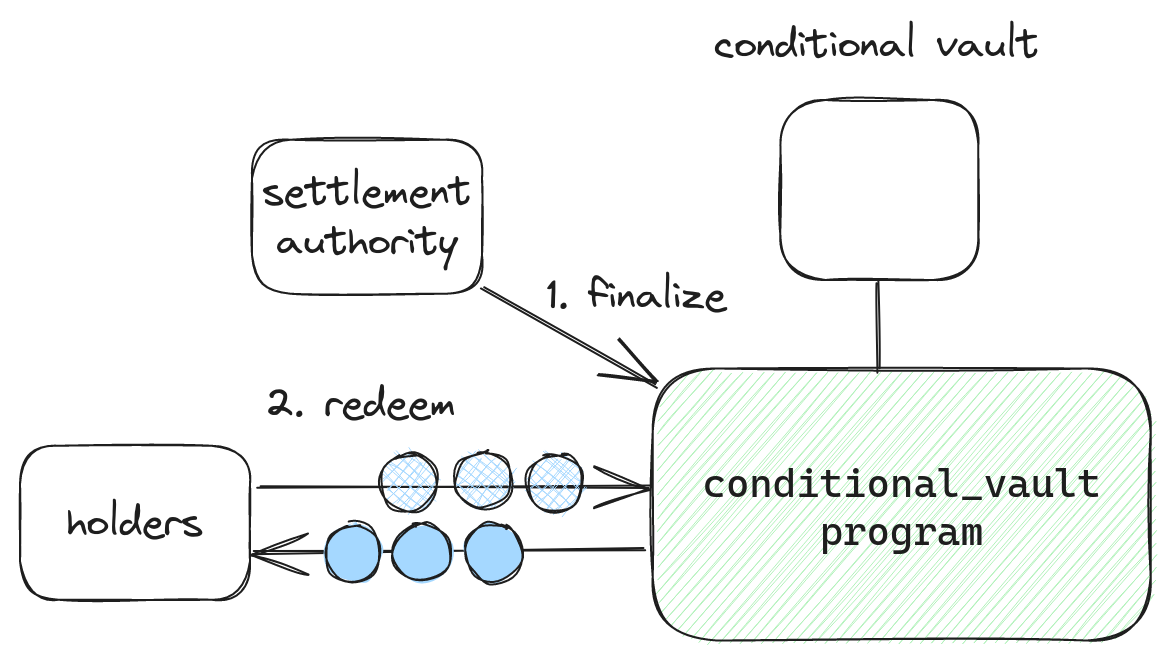
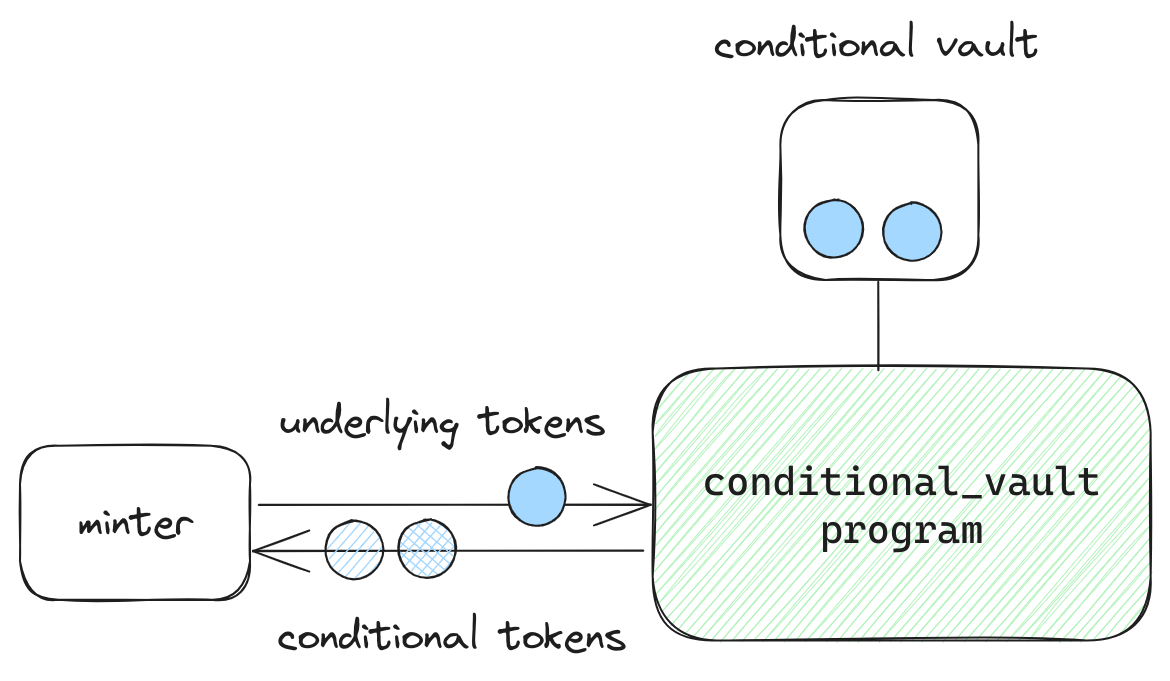
GITBOOK-8: Complete program architecture page

diff --git a/docs/implementation/program-architecture.md b/docs/implementation/program-architecture.md
@@ -2,33 +2,64 @@
 
 We implement futarchy via three programs:
 
-* **Conditional vault:** what allows the creation of conditional tokens, which in turn is what allows for conditional markets.
+* **Conditional vault:** what allows the creation of conditional tokens.
+* **AMM:** allows the creation of AMM-based conditional markets. Provides a time-weighted average price oracle.
 * **Autocrat:** the program that coordinates futarchy. Allows the creation of DAOs and proposals, and allows proposals to be finalized based on the prices in the conditional markets.
-* **AMM:** we need to get on-chain time-weighted average prices of the conditional markets. Existing Solana-based CPAMMs didn't provide TWAP oracles, so we have an AMM program that provides one.
 
 ### Conditional vault program <a href="#conditional-vault-program" id="conditional-vault-program"></a>
 
-In a conditional market, you must revert all trades when the condition isn't met. Blockchains like Solana don't allow you to revert transactions after they've been finalized, so we need a mechanism to _simulate_ reverting transactions. That mechanism is conditional tokens.
+For a conditional market to work, you must revert all of the market's trades when the condition isn't met. This is what allows speculators to place trades like "I would pay $5,000 for 10 META if this proposal passes."
 
-Before minting conditional tokens, someone needs to create a _conditional vault_. Conditional vaults are each tied to a specific _underlying token, settlement authority,_ and _proposal_.
+Blockchains like Solana don't allow you to revert transactions after they've been finalized, so we need a mechanism to _simulate_ reverting transactions. That mechanism is conditional tokens.
+
+Conditional tokens are tied to _conditional vaults_. Each conditional vault has a specific _underlying token, settlement authority,_ and _proposal_. In the case of futarchy, the underlying token would be either USDC or the DAO's token, the settlement authority would be the DAO's treasury, and the proposal would be a proposal to the DAO.
+
+<figure><img src="../.gitbook/assets/conditional-vaults.png" alt="" width="563"><figcaption></figcaption></figure>
 
 Once a vault is created, anyone can deposit underlying tokens in exchange for conditional tokens. You receive two types of conditional tokens: ones that are redeemable for underlying tokens if the vault is finalized and ones that are redeemable for underlying tokens if the vault is reverted. For example, if you deposit 10 USDC into a vault, you will receive 10 conditional-on-finalize USDC and 10 conditional-on-revert USDC.
 
-<figure><img src="../.gitbook/assets/image.png" alt=""><figcaption></figcaption></figure>
+<figure><img src="../.gitbook/assets/image (1).png" alt="" width="563"><figcaption></figcaption></figure>
 
 The settlement authority can either _finalize_ or _revert_ a vault.
 
 If the settlement authority finalizes a vault, users can redeem their conditional-on-finalize tokens for underlying tokens. Conversely, if the settlement authority reverts a vault, users can redeem their conditional-on-revert tokens for underlying tokens.
 
-<figure><img src="../.gitbook/assets/image (1).png" alt=""><figcaption></figcaption></figure>
+<figure><img src="../.gitbook/assets/image (1) (1).png" alt="" width="563"><figcaption></figcaption></figure>
 
-There should be two vaults for each proposal: a base vault and a quote vault. The base vault uses the DAO's token as the underlying token, and the quote vault uses USDC as the underlying token. For example, MetaDAO proposals have vaults for META and USDC.
+There are two vaults for each proposal: a base vault and a quote vault. The base vault uses the DAO's token as the underlying token, and the quote vault uses USDC as the underlying token. For example, MetaDAO proposals have vaults for META and USDC.
 
-While a proposal is live, traders can deposit their underlying tokens for conditional tokens. If the proposal passes, both vaults are finalized. If it fails, both are reverted.
+If the proposal passes, both vaults are finalized. If it fails, both are reverted.
 
-<figure><img src="../.gitbook/assets/image (2).png" alt=""><figcaption></figcaption></figure>
+<figure><img src="../.gitbook/assets/image (2).png" alt="" width="563"><figcaption></figcaption></figure>
 
+This allows us to achieve the desired reverting of trades. For example, if someone mints conditional-on-pass META and trades it for conditional-on-pass USDC, either the proposal will pass and they can redeem conditional-on-pass USDC for USDC or the proposal will fail and they can redeem their conditional-on-fail META for their original META.
 
+So we create two markets per proposal: one where conditional-on-pass META is traded for conditional-on-pass USDC and one where conditional-on-fail META is traded for conditional-on-fail USDC. This allows traders to express opinions like “this token would be worth $112 if the proposal passes, but it’s only worth $105 if the proposal fails.”
 
+<figure><img src="../.gitbook/assets/conditional-markets(1).png" alt="" width="475"><figcaption></figcaption></figure>
 
+### AMM <a href="#conditional-vault-program" id="conditional-vault-program"></a>
 
+Conditional markets are facilitated through a constant-product AMM.&#x20;
+
+Importantly, this AMM provides an on-chain time-weighted average price (TWAP) oracle that can be used by autocrat to determine when to pass or fail proposals. The oracle follows the same design as [Uniswap V2](https://docs.uniswap.org/contracts/v2/concepts/core-concepts/oracles), and uses several additional mechanisms to ensure manipulation-resistance.
+
+### Autocrat <a href="#conditional-vault-program" id="conditional-vault-program"></a>
+
+The last piece of the puzzle is _autocrat_, the program that orchestrates futarchy.
+
+Anyone can interact with autocrat to create a _proposal_, which contains fields such as a proposal number, proposal description link, and an executable Solana Virtual Machine (SVM) instruction. For example, someone could create a proposal to transfer 150,000 USDC to a development team to improve a product that’s managed by a DAO.
+
+The requisite conditional vaults and markets are created at the same time.
+
+The last piece of the puzzle is _autocrat_, the program that orchestrates futarchy.
+
+Anyone can interact with autocrat to create a _proposal_, which contains fields such as a proposal number, proposal description link, and an executable Solana Virtual Machine (SVM) instruction. For example, someone could create a proposal to transfer 150,000 USDC to a development team to improve a product that’s managed by MetaDAO.
+
+The requisite conditional vaults and markets are created at the same time.
+
+<figure><img src="../.gitbook/assets/image.png" alt="" width="563"><figcaption></figcaption></figure>
+
+After a configurable amount of time (3 days by default), anyone can trigger proposal finalization. In finalization, autocrat checks if the TWAP of the pass market is x% higher than the TWAP of the fail market, where x is a DAO-configured threshold.
+
+&#x20;If it is, it finalizes the pass market, reverts the fail market, and allows the SVM instruction to be executed. If it isn’t, it reverts the pass market, finalizes the fail market, and does not allow the SVM instruction to be executed.
